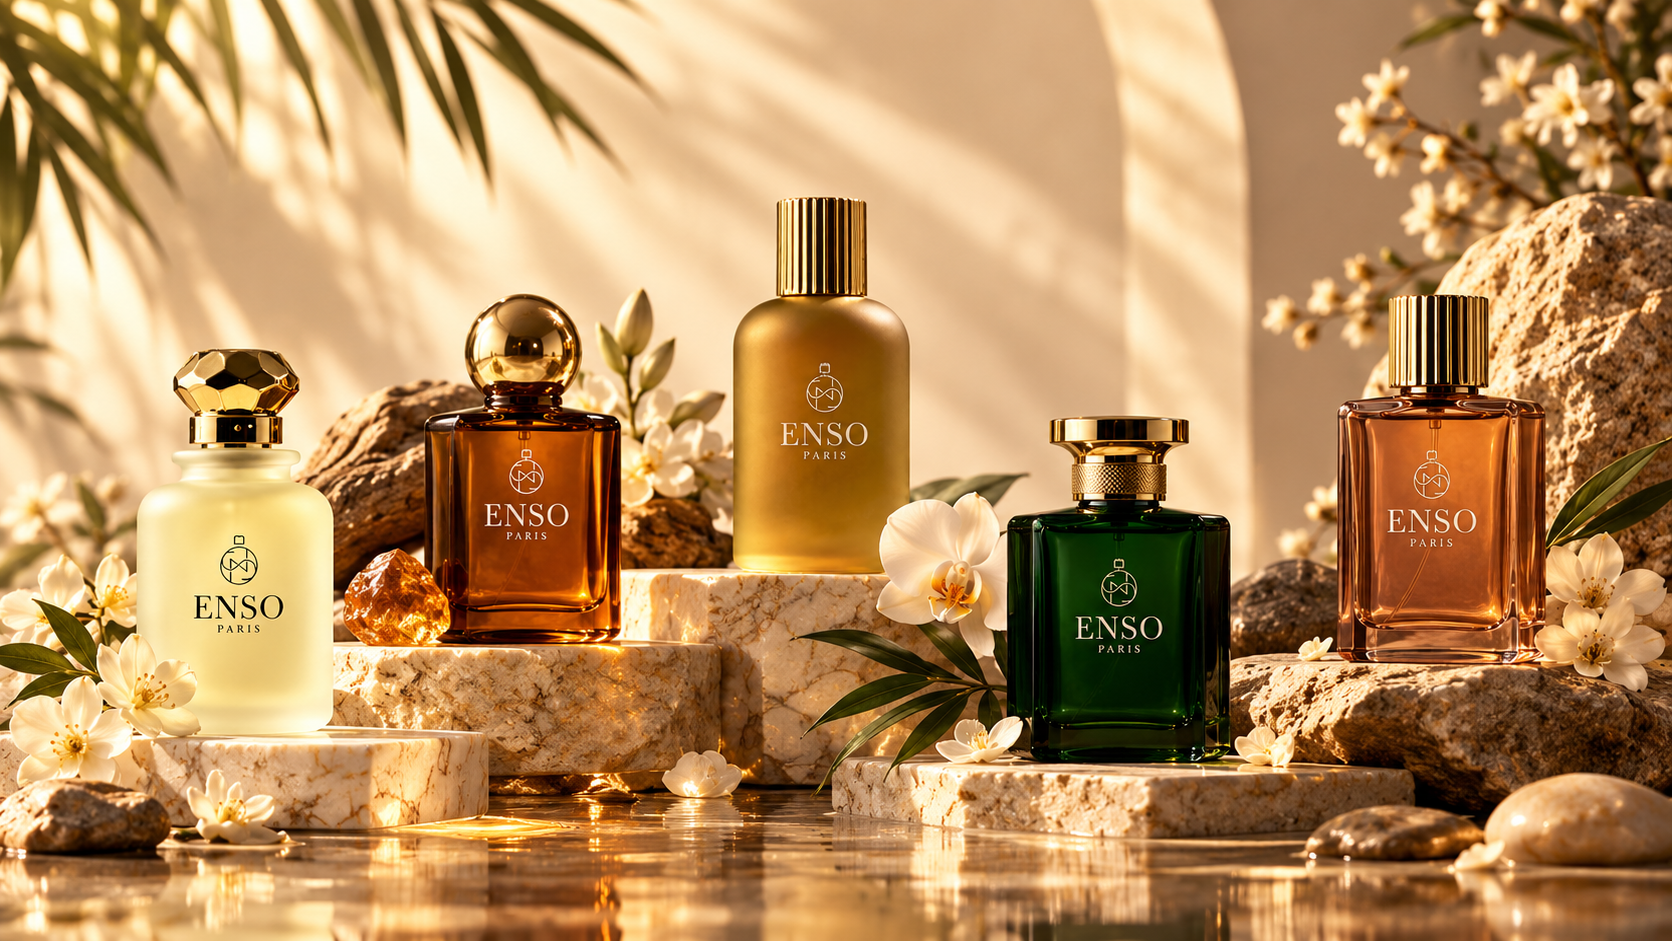
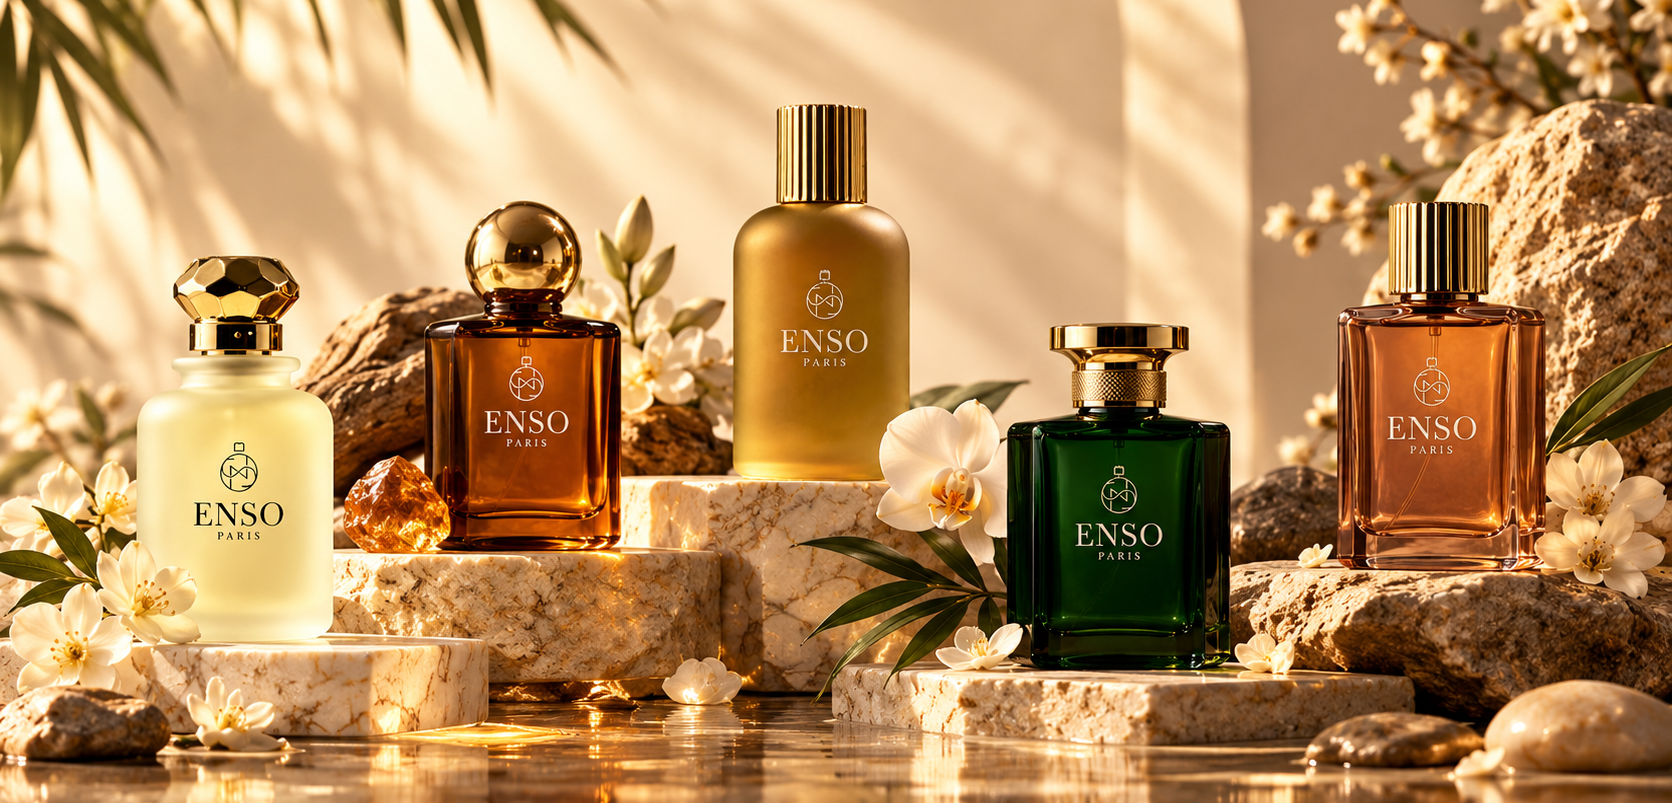
.

diff --git a/src/pages/Giveaway.tsx b/src/pages/Giveaway.tsx
@@ -31,46 +31,46 @@ const prizes: {
   cardClass?: string;
   imgClass?: string;
 }[] = [
-  { number: 6, string: "TVS Jupiter (110cc)", image: prize6 },
-  { number: 7, string: "IPhone 16", image: prize7 },
-  { number: 8, string: "HP Laptop", image: prize8 },
-  { number: 9, string: "Gold Coin 2g", image: prize9 },
-  { number: 10, string: "Gold Coin 2g", image: prize10 },
-  { number: 11, string: "Godrej AC (1 Tone 3 Star)", image: prize11 },
-  { number: 12, string: "LG Double Door Fridge", image: prize12, size: "h-80 sm:h-96" },
+  { number: 6, string: "TVS Jupiter (110cc)", image: "https://res.cloudinary.com/mpfeep2s/image/upload/v1792405817/6.png" },
+  { number: 7, string: "IPhone 16", image: "https://res.cloudinary.com/mpfeep2s/image/upload/v1792405818/7.png" },
+  { number: 8, string: "HP Laptop", image: "https://res.cloudinary.com/mpfeep2s/image/upload/v1792405818/8.png" },
+  { number: 9, string: "Gold Coin 2g", image: "https://res.cloudinary.com/mpfeep2s/image/upload/v1792405819/9.png" },
+  { number: 10, string: "Gold Coin 2g", image: "https://res.cloudinary.com/mpfeep2s/image/upload/v1792405820/10.png" },
+  { number: 11, string: "Godrej AC (1 Tone 3 Star)", image: "https://res.cloudinary.com/mpfeep2s/image/upload/v1792405821/11.png" },
+  { number: 12, string: "LG Double Door Fridge", image: "https://res.cloudinary.com/mpfeep2s/image/upload/v1792405822/12.png", size: "h-80 sm:h-96" },
   {
     number: 13,
     string: "Samsung Galaxy Tab",
-    image: prize13,
+    image: "https://res.cloudinary.com/mpfeep2s/image/upload/v1792405824/13.png",
     cardClass: "flex flex-col justify-end lg:self-stretch lg:pb-4",
     imgClass: "lg:flex-1",
   },
   {
     number: 14,
     string: "Washing Machine 7kg LG Fully Automatic",
-    image: prize14,
+    image: "https://res.cloudinary.com/mpfeep2s/image/upload/v1792405825/14.png",
     size: "h-72 sm:h-64",
     cardClass: "flex flex-col justify-end lg:self-stretch",
     imgClass: "lg:flex-1",
   },
-  { number: 15, string: "Door Refrigerator Samsung Single", image: prize15, size: "h-80 sm:h-96" },
+  { number: 15, string: "Door Refrigerator Samsung Single", image: "https://res.cloudinary.com/mpfeep2s/image/upload/v1792405826/15.png", size: "h-80 sm:h-96" },
   {
     number: 16,
     string: "Android Mobile Phone",
-    image: prize16,
+    image: "https://res.cloudinary.com/mpfeep2s/image/upload/v1792405827/16.png",
     cardClass: "flex flex-col justify-end lg:self-stretch",
     imgClass: "lg:flex-1",
   },
   {
     number: 17,
     string: "Samsung Semi Automatic Washing Machine",
-    image: prize17,
+    image: "https://res.cloudinary.com/mpfeep2s/image/upload/v1792405828/17.png",
     cardClass: "flex flex-col justify-end lg:self-stretch",
     imgClass: "lg:flex-1",
   },
-  { number: 18, string: "Water Purifier", image: prize18 },
-  { number: 19, string: "32 inch Smart Led Tv", image: prize19 },
-  { number: 20, string: "V-Guard Air Cooler", image: prize20 },
+  { number: 18, string: "Water Purifier", image: "https://res.cloudinary.com/mpfeep2s/image/upload/v1792405830/18.png" },
+  { number: 19, string: "32 inch Smart Led Tv", image: "https://res.cloudinary.com/mpfeep2s/image/upload/v1792405831/19.png" },
+  { number: 20, string: "V-Guard Air Cooler", image: "https://res.cloudinary.com/mpfeep2s/image/upload/v1792405832/20.png" },
 ];
 
 function CountdownUnit({
@@ -85,17 +85,17 @@ function CountdownUnit({
   return (
     <div
       className={`flex flex-col items-center rounded-lg border px-2 py-4 ${
-        live ? "border-gold/40 bg-gold/10" : "border-[#FAF8F5]/10 bg-[#1F1D1A]"
+        live ? "border-gold/40 bg-gold/10" : "border-[#E6DFD2] bg-white/70"
       }`}
     >
       <span
         className={`font-display text-4xl leading-none tabular-nums sm:text-5xl ${
-          live ? "text-gold" : "text-[#FAF8F5]"
+          live ? "text-gold" : "text-[#141311]"
         }`}
       >
         {pad(value)}
       </span>
-      <span className="mt-2 text-[10px] font-medium uppercase tracking-[0.25em] text-[#FAF8F5]/45">
+      <span className="mt-2 text-[10px] font-medium uppercase tracking-[0.25em] text-[#7A5E2E]">
         {label}
       </span>
     </div>
@@ -143,27 +143,23 @@ export function Giveaway() {
           </nav>
 
           {/* Countdown timer */}
-          <div className="mt-6 rounded-xl border border-[#2A2622] bg-[#161513] p-5 shadow-[0_20px_50px_-24px_rgba(20,19,17,0.6)] sm:p-6">
+          <div className="mt-6 rounded-lg border border-[#E6DFD2] bg-[#FAF7F2] p-5 sm:p-6">
             <div className="flex flex-wrap items-center justify-between gap-2">
               <span className="flex items-center gap-2 text-xs font-medium uppercase tracking-[0.24em] text-gold">
                 <Gift className="h-3.5 w-3.5" />
                 Giveaway ends in
-                <span className="relative flex h-1.5 w-1.5">
-                  <span className="absolute inline-flex h-full w-full animate-ping rounded-full bg-gold opacity-75 motion-reduce:animate-none" />
-                  <span className="relative inline-flex h-1.5 w-1.5 rounded-full bg-gold" />
-                </span>
               </span>
-              <span className="text-xs font-medium uppercase tracking-[0.24em] text-[#FAF8F5]/40">
+              <span className="text-xs font-medium uppercase tracking-[0.24em] text-[#7A5E2E]/70">
                 {GIVEAWAY.closingDateLabel}
               </span>
             </div>
 
             {countdown.expired ? (
-              <p className="mt-5 font-display text-2xl text-[#FAF8F5]">
+              <p className="mt-5 font-display text-2xl text-[#1A1816]">
                 This giveaway has now closed.
               </p>
             ) : (
-              <div className="mt-5 grid max-w-lg grid-cols-4 gap-2 sm:gap-3">
+              <div className="mt-5 grid grid-cols-4 gap-2 sm:gap-3">
                 <CountdownUnit value={countdown.days} label="Days" />
                 <CountdownUnit value={countdown.hours} label="Hours" />
                 <CountdownUnit value={countdown.minutes} label="Minutes" />
@@ -178,7 +174,7 @@ export function Giveaway() {
         <section aria-label="Giveaway prizes" className="mb-10">
           <article className="mb-8 overflow-hidden">
             <img
-              src={prize1to5}
+              src={"https://res.cloudinary.com/mpfeep2s/image/upload/v1792405818/1-5_.png"}
               alt="Giveaway prizes 1 to 5"
               className="-mx-6 h-32 w-[calc(100%+3rem)] object-cover object-right sm:mx-0 sm:h-auto sm:w-full sm:max-h-[34rem] sm:object-contain lg:max-h-[26rem]"
             />

diff --git a/src/pages/Index.tsx b/src/pages/Index.tsx
@@ -76,7 +76,7 @@ export function Index() {
     <div className="min-h-screen bg-background font-sans">
       <SiteHeader />
 
-      <section className="relative overflow-hidden">
+      <section className="relative flex min-h-[34rem] items-center overflow-hidden sm:min-h-[36rem] lg:min-h-[38rem]">
         {slides.map((s, i) => (
           <img
             key={s.alt}
@@ -85,14 +85,14 @@ export function Index() {
             width={1920}
             height={832}
             loading={i === 0 ? "eager" : "lazy"}
-            className={`absolute inset-0 h-full w-full object-cover object-[33%_center] transition-opacity duration-700 lg:object-right ${i === active ? "opacity-100" : "opacity-0"}`}
+            className={`absolute inset-0 h-full w-full object-cover object-[62%_center] transition-opacity duration-700 lg:object-right ${i === active ? "opacity-100" : "opacity-0"}`}
           />
         ))}
         <div className="absolute inset-0 bg-gradient-to-r from-background via-background/70 to-background/20 lg:from-background/90 lg:via-background/50 lg:to-transparent" />
-        <div className="relative px-6 py-24 lg:px-16 lg:py-28">
+        <div className="relative w-full px-6 py-16 lg:px-16 lg:py-20">
           <p className="text-xs font-medium uppercase tracking-[0.2em] text-gold">{slide.tag}</p>
-          <h1 className="mt-6 min-h-[3.75em] font-display text-5xl leading-tight lg:whitespace-nowrap lg:min-h-[2.5em] lg:text-7xl">{slide.title}</h1>
-          <p className="mt-6 min-h-[4.5em] max-w-xs text-lg font-light">{slide.text}</p>
+          <h1 className="mt-6 min-h-[2.5em] font-display text-4xl leading-tight min-[420px]:text-5xl sm:whitespace-nowrap lg:text-6xl">{slide.title}</h1>
+          <p className="mt-6 min-h-[3em] max-w-xs text-lg font-light">{slide.text}</p>
           <div className="mt-10 flex flex-wrap gap-4">
             <Link
               to="/collections"
@@ -101,7 +101,7 @@ export function Index() {
               Explore Collection
             </Link>
           </div>
-          <div className="mt-16 flex gap-3">
+          <div className="mt-14 flex gap-3">
             {slides.map((s, i) => (
               <button
                 key={s.alt}

diff --git a/src/components/GiveawayCard.tsx b/src/components/GiveawayCard.tsx
@@ -3,10 +3,11 @@ import { Link, useLocation } from "react-router-dom";
 import { X } from "lucide-react";
 import { GIVEAWAY_DEADLINE_ISO } from "@/data/giveaway";
 import { useCountdown } from "@/lib/useCountdown";
-import prize from "@/assets/Fragrance-Giveaway.jpg.jpeg";
 
 const REVEAL_DELAY_MS = 2500;
-const SEEN_KEY = "fg-giveaway-card-seen";
+
+const prize =
+  "https://res.cloudinary.com/mpfeep2s/image/upload/v1792406126/Fragrance-Giveaway.jpg.jpg";
 
 const pad = (value: number) => String(value).padStart(2, "0");
 
@@ -24,29 +25,16 @@ function CountdownCell({ value, label }: { value: number; label: string }) {
 export function GiveawayCard() {
   const { pathname } = useLocation();
   const [visible, setVisible] = useState(false);
-  // Once the card has been shown (or dismissed) in this browser session,
-  // it never returns — even across route changes or refreshes — until the
-  // session ends.
-  const [dismissed, setDismissed] = useState(() => {
-    try {
-      return sessionStorage.getItem(SEEN_KEY) === "1";
-    } catch {
-      return false;
-    }
-  });
+  const [dismissed, setDismissed] = useState(false);
   const countdown = useCountdown(GIVEAWAY_DEADLINE_ISO);
 
+  // Dismissal lives only in memory: it holds while the visitor stays on the
+  // site (even across route changes) and resets on refresh, so the card
+  // returns for the next visit.
   useEffect(() => {
     if (pathname !== "/" || dismissed) return;
 
-    const id = window.setTimeout(() => {
-      setVisible(true);
-      try {
-        sessionStorage.setItem(SEEN_KEY, "1");
-      } catch {
-        // sessionStorage unavailable — fall back to in-memory only.
-      }
-    }, REVEAL_DELAY_MS);
+    const id = window.setTimeout(() => setVisible(true), REVEAL_DELAY_MS);
     return () => window.clearTimeout(id);
   }, [pathname, dismissed]);
 

diff --git a/src/data/fragrances.ts b/src/data/fragrances.ts
@@ -36,7 +36,7 @@ export const FRAGRANCES: Fragrance[] = [
     prices: {
       "100ml": 1000,
     },
-    image: ensoImg,
+    image: "https://res.cloudinary.com/mpfeep2s/image/upload/v1792162644/GOLDEN_AMBER.jpg",
   },
   {
     id: "enso-blue-legend-a1",
@@ -50,7 +50,7 @@ export const FRAGRANCES: Fragrance[] = [
     prices: {
       "100ml": 1000,
     },
-    image: velvetOrchidImg,
+    image: "https://res.cloudinary.com/mpfeep2s/image/upload/v1792162644/BLUE_LEGEND_PURE_A1.jpg",
   },
   {
     id: "enso-blue-legend-b2",
@@ -64,7 +64,7 @@ export const FRAGRANCES: Fragrance[] = [
     prices: {
       "100ml": 1000,
     },
-    image: veridanImg,
+    image: "https://res.cloudinary.com/mpfeep2s/image/upload/v1792162644/BLUE_LEGEND_NOIR_B2.jpg",
   },
   {
     id: "enso-exotic",
@@ -78,7 +78,7 @@ export const FRAGRANCES: Fragrance[] = [
     prices: {
       "100ml": 1000,
     },
-    image: santalImg,
+    image: "https://res.cloudinary.com/mpfeep2s/image/upload/v1792162644/EXOTIC.jpg",
   },
   {
     id: "enso-sunset-crush",
@@ -92,6 +92,6 @@ export const FRAGRANCES: Fragrance[] = [
     prices: {
       "100ml": 1000,
     },
-    image: fleurNuitImg,
+    image: "https://res.cloudinary.com/mpfeep2s/image/upload/v1792403551/SUNSET_CRUSH.png",
   },
 ];

diff --git a/src/data/giveaway.ts b/src/data/giveaway.ts
@@ -18,7 +18,7 @@
  * value, so the deadline only ever needs to be changed here. It is a fixed
  * point in time, so it does not restart on page refresh, remount or reopen.
  */
-export const GIVEAWAY_DEADLINE_ISO = "2026-12-31T23:59:59Z"; // PLACEHOLDER
+export const GIVEAWAY_DEADLINE_ISO = "2027-04-30T23:59:59+05:30";
 
 export interface GiveawayConfig {
   brand: string;
@@ -49,7 +49,6 @@ export const GIVEAWAY: GiveawayConfig = {
   prizeDescription:
     "The prize plots numbered 1–5 are shown above. Additional prize plots 6–20 follow the same layout below.",
 
-
   closingDateLabel: "30 April 2027",
 
   // TODO(business): confirm the official entry method.
@@ -57,8 +56,6 @@ export const GIVEAWAY: GiveawayConfig = {
     "Tap the button above to purchase perfume based on your interest through our WhatsApp concierge.",
     "The official entry method, and any required details, will be confirmed by Fragrance Gallery.",
   ],
-
-
 
   terms: [
     "This offer is valid only on purchase of this product mentioned here.",
